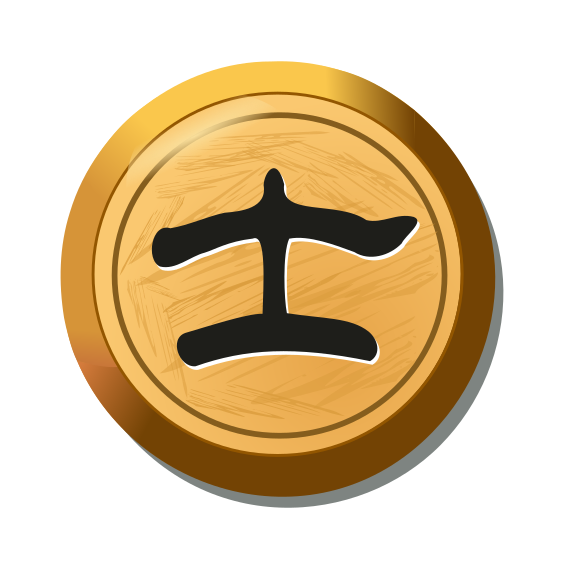
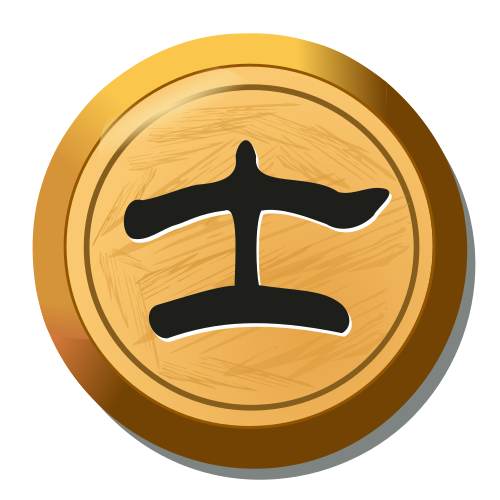
剪裁了一下图片素材，调小了整体窗口大小

diff --git a/src/gui/chess_board_scene.py b/src/gui/chess_board_scene.py
@@ -5,15 +5,16 @@ from PySide6.QtCore import Qt, QPoint, Signal
 from game_core.board import *
 
 
-ASSET_BOARD_PATH = "assets/board/xiangqi_gmchess_wood.png"
+ASSET_BOARD_PATH = "assets/board/board.png"
 ASSET_PIECES_PATH = "assets/pieces/"
 PIECES_FILE_NAMES = ["red_pawn", "red_cannon", "red_rook", "red_knight", "red_bishop", "red_advisor", "red_king",
                      "black_pawn", "black_cannon", "black_rook", "black_knight", "black_bishop", "black_advisor", "black_king"]
 
-PIECE_SIZE = (100, 100)
-BOARD_SIZE = (1002, 902)
-BOARD_OFFSET = (51, 51)
-BOARD_SPACING = (100, 100)
+PIECE_SIZE = (50, 50)
+PIECE_CLICKABLE_AREA = (40, 40)
+BOARD_SIZE = (500, 450)
+BOARD_OFFSET = (25, 25)
+BOARD_SPACING = (50, 50)
 
 
 class ChessPiece(QGraphicsPixmapItem):
@@ -88,14 +89,13 @@ class ChessboardScene(QGraphicsScene):
         handle the click event from the game board label, convert the clicked position to the board coordinate,
         and send the game_board_click signal
         """
-        piece_clickable_range = (80, 80)
         # transform the clicked position
         pos = QPoint(event.scenePos().y(), event.scenePos().x())
         pos = pos - QPoint(BOARD_OFFSET[0], BOARD_OFFSET[1])
-        pos = pos + QPoint(piece_clickable_range[0] // 2, piece_clickable_range[1] // 2)
+        pos = pos + QPoint(PIECE_CLICKABLE_AREA[0] // 2, PIECE_CLICKABLE_AREA[1] // 2)
         # check if the clicked position is inside the valid area
-        if (0 < pos.x() % BOARD_SPACING[0] < piece_clickable_range[0] \
-                and 0 < pos.y() % BOARD_SPACING[1] < piece_clickable_range[1]):
+        if (0 < pos.x() % BOARD_SPACING[0] < PIECE_CLICKABLE_AREA[0] \
+                and 0 < pos.y() % BOARD_SPACING[1] < PIECE_CLICKABLE_AREA[1]):
             # convert click position to game board coordinate
             x_idx, y_idx = pos.x() // BOARD_SPACING[0], pos.y() // BOARD_SPACING[1]
             self.board_clicked_signal.emit((x_idx, y_idx))

diff --git a/src/gui/main_window.py b/src/gui/main_window.py
@@ -11,7 +11,7 @@ class MainWindow(QMainWindow):
 
         self.app = app
         self.setWindowTitle("PyChess")
-        self.resize(1000, 1200)        
+        self.resize(500, 600)        
         self.init_menu()
 
     def init_menu(self):
@@ -22,7 +22,7 @@ class MainWindow(QMainWindow):
     def start_game(self, game_mode):
         # init game UI
         self.game_ui_widget = QWidget()
-        self.board_scene = ChessboardScene(902, 1002)
+        self.board_scene = ChessboardScene(450, 500)
         self.board_view = ChessboardView(self.board_scene)
 
         layout = QVBoxLayout(self.game_ui_widget)
